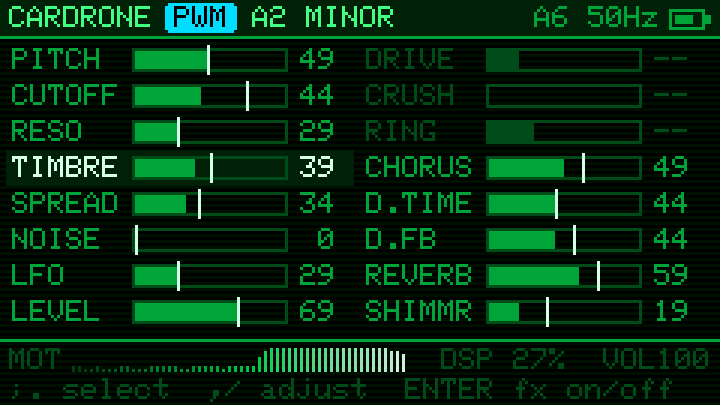
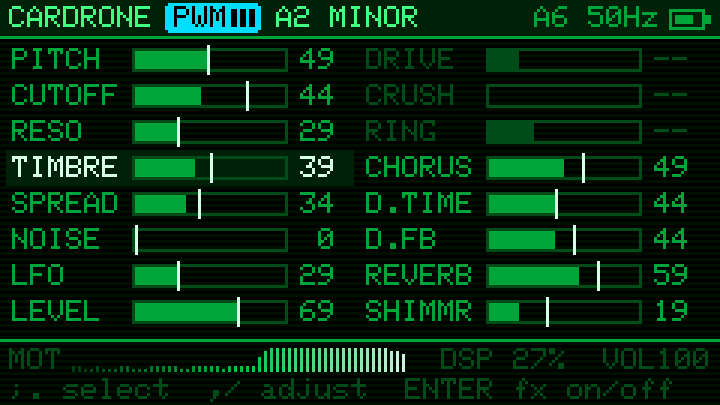
n cycles voices: 1 root, 2 + fifth, 3 + sub
Every engine stacks up to three tones (root, the fifth above, the octave
below); n picks how many, shown as bars in the header's engine tag and saved
with presets (older presets load as 3). ORGAN shares its 16 partials among the
voices and SHEP gets one Shepard bell per voice; SAW now splits its saws
between root and fifth. Changing voices fades out and back in, like an engine
switch, so nothing clicks.

Changed region(s): [[0.3056, 0.0, 0.5806, 0.0889]]

diff --git a/src/dsp.h b/src/dsp.h
@@ -51,13 +51,13 @@ constexpr int NSLOT = 8;
 struct Slot { uint8_t src, dst; int8_t depth; };  // depth -100..100, 0 = off
 
 struct Patch {
-  uint8_t engine, root, octave, scale, fx, lfo;
+  uint8_t engine, root, octave, scale, fx, lfo, voices;  // voices: 1 root, 2 +fifth, 3 +sub
   float p[NPARAM];
   Slot mod[NSLOT];
 };
 
 static const Patch DEFAULT_PATCH = {
-    E_PWM, 9, 2, 0, FX_CHORUS | FX_DELAY | FX_REVERB, L_SINE,
+    E_PWM, 9, 2, 0, FX_CHORUS | FX_DELAY | FX_REVERB, L_SINE, 3,
     {0.5f, 0.45f, 0.3f, 0.4f, 0.35f, 0.f, 0.3f, 0.7f, 0.2f, 0.f, 0.3f, 0.5f, 0.45f, 0.45f, 0.6f, 0.2f},
     {{S_MOT, P_CUTOFF, 35}, {S_PHS, P_TIMBRE, 25}, {S_MOT, P_SHIMMER, 30}, {S_MID, P_REVERB, 20},
      {S_RSSI, P_SPREAD, 15}, {S_LFO, P_CUTOFF, 10}, {S_HI, P_DFB, 20}, {S_LO, P_CHORUS, 20}},
@@ -78,8 +78,8 @@ static inline int quantize(float s, uint16_t mask) {
 
 // ── patch JSON (hand-rolled: the format is ours and flat) ────────────────────
 static int patchToJson(const Patch& p, char* out, int cap) {  // cap >= 512
-  int n = snprintf(out, cap, "{\"engine\":%d,\"root\":%d,\"octave\":%d,\"scale\":%d,\"fx\":%d,\"lfo\":%d,\n\"params\":[",
-                   p.engine, p.root, p.octave, p.scale, p.fx, p.lfo);
+  int n = snprintf(out, cap, "{\"engine\":%d,\"root\":%d,\"octave\":%d,\"scale\":%d,\"fx\":%d,\"lfo\":%d,\"voices\":%d,\n\"params\":[",
+                   p.engine, p.root, p.octave, p.scale, p.fx, p.lfo, p.voices);
   for (int i = 0; i < NPARAM; i++) n += snprintf(out + n, cap - n, "%s%.3f", i ? "," : "", p.p[i]);
   n += snprintf(out + n, cap - n, "],\n\"matrix\":[");
   for (int i = 0; i < NSLOT; i++)
@@ -109,12 +109,13 @@ static int clampInt(float v, int lo, int hi) { return v >= lo ? (v <= hi ? (int)
 // SD files are user-editable: every field is range-checked before use.
 static bool patchFromJson(const char* js, Patch& out) {
   static const char* const keys[5] = {"\"engine\"", "\"root\"", "\"octave\"", "\"scale\"", "\"fx\""};
-  float h[5], v[NPARAM], m[NSLOT * 3], lfo = 0;
+  float h[5], v[NPARAM], m[NSLOT * 3], lfo = 0, voices = 3;
   for (int i = 0; i < 5; i++)
     if (jsonNums(js, keys[i], &h[i], 1) != 1) return false;
   if (jsonNums(js, "\"params\"", v, NPARAM) != NPARAM) return false;
   if (jsonNums(js, "\"matrix\"", m, NSLOT * 3) != NSLOT * 3) return false;
-  jsonNums(js, "\"lfo\"", &lfo, 1);  // optional: presets saved before LFO shapes lack it
+  jsonNums(js, "\"lfo\"", &lfo, 1);  // optional: older presets lack these two
+  jsonNums(js, "\"voices\"", &voices, 1);
   Patch p;
   p.engine = clampInt(h[0], 0, NENGINE - 1);
   p.root = clampInt(h[1], 0, 11);
@@ -122,6 +123,7 @@ static bool patchFromJson(const char* js, Patch& out) {
   p.scale = clampInt(h[3], 0, NSCALE - 1);
   p.fx = clampInt(h[4], 0, 63);
   p.lfo = clampInt(lfo, 0, NLFO - 1);
+  p.voices = clampInt(voices, 1, 3);
   for (int i = 0; i < NPARAM; i++) p.p[i] = clamp01(v[i]);
   for (int i = 0; i < NSLOT; i++)
     p.mod[i] = {(uint8_t)clampInt(m[3 * i], 0, NSRC - 1), (uint8_t)clampInt(m[3 * i + 1], 0, NPARAM - 1),
@@ -207,9 +209,9 @@ struct Synth {
   void render(int16_t* out, int n, float* src, const float* prof);
 
  private:
-  float ph[16] = {}, pwmPh[6] = {}, mph[3] = {}, partAmp[16] = {}, fz1[3] = {}, fz2[3] = {}, shep = 0;
+  float ph[24] = {}, pwmPh[6] = {}, mph[3] = {}, partAmp[16] = {}, fz1[3] = {}, fz2[3] = {}, shep = 0;
   float baseS[NPARAM], modS[NSRC] = {}, lfoPh = 0, lfoA = 0, lfoB = 0, semis = 0, fade = 0, cut = 1000, ic1 = 0, ic2 = 0;
-  int engine = -1;
+  int engine = -1, curVoices = 3;
   uint8_t fxOn = 0;
   uint32_t rng = 22222;
   float crushHeld = 0, ringPh = 0;
@@ -281,9 +283,13 @@ DSP_IRAM void Synth::render(int16_t* out, int n, float* src, const float* prof) 
     if (s.depth && s.src < NSRC && s.dst < NPARAM) eff[s.dst] += modS[s.src] * s.depth * 0.01f;
   for (float& e : eff) e = clamp01(e);
 
-  // Engine swap: fade out, switch, fade back in.
-  if (P.engine != engine && fade < 0.002f) engine = P.engine < NENGINE ? P.engine : 0;
-  float fadeTo = P.engine == engine ? 1.f : 0.f;
+  // Engine or voice-count swap: fade out, switch, fade back in (oscillators
+  // appearing or vanishing mid-wave would click).
+  if ((P.engine != engine || P.voices != curVoices) && fade < 0.002f) {
+    engine = P.engine < NENGINE ? P.engine : 0;
+    curVoices = P.voices;
+  }
+  float fadeTo = P.engine == engine && P.voices == curVoices ? 1.f : 0.f;
 
   // An FX switched on starts clean instead of replaying a stale buffer.
   uint8_t fx = P.fx, on = fx & ~fxOn;
@@ -300,9 +306,13 @@ DSP_IRAM void Synth::render(int16_t* out, int n, float* src, const float* prof) 
   float fv[3] = {f0, f0 * 1.4983f, f0 * 0.5f};  // root, fifth, sub
   float tb = eff[P_TIMBRE], sp = eff[P_SPREAD];
 
-  float inc[16], idt[16], amp[16], pw[6], idx[3], minc[3], fa1[3], fa2[3], fa3[3], fk[3];
+  float inc[24], idt[24], amp[24], pw[6], idx[3], minc[3], fa1[3], fa2[3], fa3[3], fk[3];
   float norm = 1, wfr = 0;
   const int16_t *wA = WT[0], *wB = WT[1];
+  // Voices stack root, fifth (fv[1]) and sub (fv[2]); fewer voices get a lift so
+  // the level stays put (ORGAN and SHEP normalise themselves).
+  int tones = curVoices < 1 ? 1 : curVoices > 3 ? 3 : curVoices;
+  float vg = tones == 1 ? 1.25f : tones == 2 ? 1.1f : 1.f;
   switch (engine) {
     case E_PWM: {
       static const float rate[6] = {0.11f, 0.17f, 0.07f, 0.13f, 0.05f, 0.09f};
@@ -317,7 +327,7 @@ DSP_IRAM void Synth::render(int16_t* out, int n, float* src, const float* prof) 
     }
     case E_SAW:
       for (int j = 0; j < 7; j++) {
-        inc[j] = f0 * exp2f((j - 3) / 3.f * sp * 40 / 1200) / SR;
+        inc[j] = fv[tones > 1 ? j % 2 : 0] * exp2f((j - 3) / 3.f * sp * 40 / 1200) / SR;
         idt[j] = 1 / inc[j];
       }
       inc[7] = f0 * 0.5f / SR;
@@ -331,15 +341,17 @@ DSP_IRAM void Synth::render(int16_t* out, int n, float* src, const float* prof) 
       }
       break;
     }
-    case E_ORGAN: {  // organ: 16 partials shaped by the subcarrier profile
+    case E_ORGAN: {  // organ: 16 partials shaped by the subcarrier profile, shared among the voices
       float sum = 0;
-      for (int k = 0; k < 16; k++) {
-        int s0 = k * NSC / 16, s1 = (k + 1) * NSC / 16;
+      for (int k = 0, h = 0, last = -1; k < 16; k++) {
+        int s0 = k * NSC / 16, s1 = (k + 1) * NSC / 16, v = k * tones / 16;
+        h = v == last ? h + 1 : 1;  // harmonic number within this voice
+        last = v;
         float b = 0;
         for (int s = s0; s < s1; s++) b += prof[s];
         b /= s1 - s0;
-        inc[k] = f0 * powf(k + 1, 1 + sp * 0.12f) / SR;
-        float t = inc[k] < 0.45f ? powf(k + 1, -0.8f) * (1 - tb + tb * 1.6f * b) : 0;
+        inc[k] = fv[v] * powf(h, 1 + sp * 0.12f) / SR;
+        float t = inc[k] < 0.45f ? powf(h, -0.8f) * (1 - tb + tb * 1.6f * b) : 0;
         partAmp[k] += (t - partAmp[k]) * glide;
         amp[k] = partAmp[k];
         sum += amp[k];
@@ -369,10 +381,10 @@ DSP_IRAM void Synth::render(int16_t* out, int n, float* src, const float* prof) 
       shep += n * (tb - 0.5f) * 0.15f / SR;  // octaves/s; TIMBRE 0.5 holds still, above rises
       shep -= 8 * floorf(shep / 8);
       float sum = 0, sharp = 1 + (1 - sp) * 4;  // SPREAD widens the bell
-      for (int k = 0; k < 8; k++) {
-        float o = k + shep;
+      for (int k = 0; k < 8 * tones; k++) {  // one bell per voice
+        float o = k % 8 + shep;
         if (o >= 8) o -= 8;  // wraps at the bell's silent edge
-        inc[k] = f0 * exp2f(o - 4) / SR;
+        inc[k] = fv[k / 8] * exp2f(o - 4) / SR;
         amp[k] = inc[k] < 0.45f ? powf(0.5f - 0.5f * sinT(o / 8 + 0.25f), sharp) : 0;
         sum += amp[k];
       }
@@ -418,11 +430,11 @@ DSP_IRAM void Synth::render(int16_t* out, int n, float* src, const float* prof) 
     float x = 0;
     switch (engine) {
       case E_PWM:
-        for (int j = 0; j < 6; j++) {
+        for (int j = 0; j < 2 * tones; j++) {  // a detuned pair per voice
           ph[j] = wrap1(ph[j] + inc[j]);
           x += (j < 2 ? 0.5f : j < 4 ? 0.3f : 0.4f) * pulseB(ph[j], inc[j], idt[j], pw[j]);
         }
-        x *= 0.42f;
+        x *= 0.42f * vg;
         break;
       case E_SAW: {
         float side = 0.2f + 0.8f * tb;
@@ -431,15 +443,16 @@ DSP_IRAM void Synth::render(int16_t* out, int n, float* src, const float* prof) 
           x += (j == 3 ? 1.f : side) * sawB(ph[j], inc[j], idt[j]);
         }
         ph[7] = wrap1(ph[7] + inc[7]);
-        x = x * 0.12f + 0.3f * sinT(ph[7]);
+        x = (x * 0.12f + (tones == 3 ? 0.3f * sinT(ph[7]) : 0)) * vg;
         break;
       }
       case E_FM:
-        for (int v = 0; v < 3; v++) {
+        for (int v = 0; v < tones; v++) {
           mph[v] = wrap1(mph[v] + minc[v]);
           ph[v] = wrap1(ph[v] + inc[v]);
           x += (v == 1 ? 0.25f : 0.4f) * sinT(ph[v] + idx[v] * sinT(mph[v]));
         }
+        x *= vg;
         break;
       case E_ORGAN:
         for (int j = 0; j < 16; j++)
@@ -450,21 +463,22 @@ DSP_IRAM void Synth::render(int16_t* out, int n, float* src, const float* prof) 
         x *= norm;
         break;
       case E_WAVE:
-        for (int v = 0; v < 4; v++) {
+        for (int v = 0; v < tones + 1; v++) {  // root pair, fifth, sub
           ph[v] = wrap1(ph[v] + inc[v]);
           float pf = ph[v] * WT_N, fr = pf - (int)pf;
           int i0 = (int)pf, i1 = (i0 + 1) & (WT_N - 1);
           float a = wA[i0] + (wA[i1] - wA[i0]) * fr, b = wB[i0] + (wB[i1] - wB[i0]) * fr;
           x += (v < 2 ? 0.35f : v == 2 ? 0.2f : 0.3f) * (a + (b - a) * wfr);
         }
-        x *= 1 / 32000.f;
+        x *= vg / 32000.f;
         break;
       case E_VOICE: {
         float s = 0;
-        for (int j = 0; j < 4; j++) {
+        for (int j = 0; j < tones + 1; j++) {  // root pair, fifth, sub
           ph[j] = wrap1(ph[j] + inc[j]);
           s += (j == 2 ? 0.6f : 1.f) * sawB(ph[j], inc[j], idt[j]);
         }
+        s *= vg;
         for (int f = 0; f < 3; f++) {  // TPT bandpass; k * band = unity gain at the formant
           float v3 = s - fz2[f], v1 = fa1[f] * fz1[f] + fa2[f] * v3, v2 = fz2[f] + fa2[f] * fz1[f] + fa3[f] * v3;
           fz1[f] = 2 * v1 - fz1[f];
@@ -474,7 +488,7 @@ DSP_IRAM void Synth::render(int16_t* out, int n, float* src, const float* prof) 
         break;
       }
       case E_SHEP:
-        for (int j = 0; j < 8; j++) {
+        for (int j = 0; j < 8 * tones; j++) {
           ph[j] = wrap1(ph[j] + inc[j]);
           x += amp[j] * sinT(ph[j]);
         }

diff --git a/src/main.cpp b/src/main.cpp
@@ -264,10 +264,11 @@ static void drawHeader() {
   cv.setTextColor(C_HI);
   cv.drawString("CARDRONE", 3, 2);
   const char* en = ENGINE_NAME[P.engine];
-  int ew = cv.textWidth(en) + 6;
+  int tw = cv.textWidth(en), ew = tw + 5 + 3 * P.voices;
   cv.fillRoundRect(55, 1, ew, 10, 2, ENGINE_COLOR[P.engine]);
   cv.setTextColor(C_BG);
   cv.drawString(en, 58, 2);
+  for (int v = 0; v < P.voices; v++) cv.fillRect(59 + tw + v * 3, 3, 2, 6, C_BG);  // one bar per voice
   char s[24];
   snprintf(s, sizeof s, "%s%d %s", NOTE_NAME[P.root], P.octave, SCALES[P.scale].name);
   cv.setTextColor(C_HI);
@@ -379,7 +380,7 @@ static void drawHelp() {
       {"TAB", "next page"}, {"1-7", "drone engine"}, {"[ ]", "root note"}, {"9 0", "octave"},
       {"k", "scale"},       {"r", "randomize"},      {"c", "calibrate room"}, {"s l", "save/load 1-8"},
       {"- =", "volume"},    {"`", "options+network"}, {";.", "up / down"}, {",/", "adjust"},
-      {"ENT", "play/stop, edit"}, {"DEL", "clear mod slot"}, {"h", "this help"}};
+      {"ENT", "play/stop, edit"}, {"DEL", "clear mod slot"}, {"n", "voices 1-3"}, {"h", "this help"}};
   for (int i = 0; i < (int)(sizeof K / sizeof *K); i++) {
     int x = 6 + (i / 8) * 120, y = 16 + (i % 8) * 11;
     cv.setTextColor(C_HI);
@@ -841,6 +842,12 @@ static void onKey(char c) {
     case '`': overlay = OV_OPTIONS; break;
     case '1': case '2': case '3': case '4': case '5': case '6': case '7': P.engine = c - '1'; break;
     case 'r': randomize(); break;
+    case 'n': {
+      static const char* const DESC[3] = {"VOICES 1: root", "VOICES 2: root + fifth", "VOICES 3: root + fifth + sub"};
+      P.voices = P.voices % 3 + 1;
+      say(DESC[P.voices - 1]);
+      break;
+    }
     case '[': P.root = (P.root + 11) % 12; break;
     case ']': P.root = (P.root + 1) % 12; break;
     case '9': if (P.octave > 0) P.octave--; break;

diff --git a/test/host_test.cpp b/test/host_test.cpp
@@ -53,7 +53,9 @@ int main(int argc, char** argv) {
   assert(patchFromJson(js, q));
   assert(q.engine == p.engine && q.fx == p.fx && q.mod[2].depth == -40 && q.mod[3].dst == P_REVERB);
   assert(fabsf(q.p[P_TIMBRE] - 0.123f) < 1e-3f);
-  assert(q.lfo == p.lfo);
+  assert(q.lfo == p.lfo && q.voices == p.voices);
+  assert(patchFromJson("{\"engine\":1,\"root\":0,\"octave\":2,\"scale\":0,\"fx\":0,\"params\":[0,0,0,0,0,0,0,0,0,0,0,0,0,0,0,0],"
+                       "\"matrix\":[[0,0,0],[0,0,0],[0,0,0],[0,0,0],[0,0,0],[0,0,0],[0,0,0],[0,0,0]]}", q) && q.voices == 3);  // pre-voices preset
   assert(!patchFromJson("{\"engine\":1}", q));
   const char* evil =
       "{\"engine\":99,\"root\":-5,\"octave\":7,\"scale\":-nan,\"fx\":999,\"params\":[9,9,9,9,9,9,9,9,9,9,9,9,9,9,9,-x9],"
@@ -108,6 +110,26 @@ int main(int argc, char** argv) {
     }
     printf("reverb+shimmer maxed: %.2f%% of samples at the clipper\n", 100.0 * pinned / (SR * 10));
     assert(pinned < SR * 10 / 100);
+  }
+
+  // Every engine at 1, 2 and 3 voices: audible, and the level roughly holds as voices drop.
+  for (int e = 0; e < NENGINE; e++) {
+    printf("%-6s voices", ENGINE_NAME[e]);
+    for (int v = 1; v <= 3; v++) {
+      syn.pt = DEFAULT_PATCH;
+      syn.pt.engine = e, syn.pt.voices = v;
+      float src0[NSRC] = {}, flat[NSC];
+      for (float& f : flat) f = 0.5f;
+      double sq = 0;
+      for (int i = 0; i < SR * 3; i += 512) {
+        syn.render(pcm, 512, src0, flat);
+        if (i >= SR * 2) for (int j = 0; j < 512; j++) sq += (double)pcm[j] * pcm[j];
+      }
+      float rms = sqrtf(sq / (SR - SR % 512)) / 32767;
+      printf("  %d: rms %.3f", v, rms);
+      assert(rms > 0.03f && rms < 0.7f);
+    }
+    puts("");
   }
 
   // Every engine with every FX and swinging sources: finite, audible, not pinned.

diff --git a/manual.md b/manual.md
@@ -18,7 +18,7 @@ Plug in headphones and the speaker switches off by itself.
 
 **Header**, from left to right:
 
-- the engine name, in its own color, so you can tell at a glance which one is playing; then the root note, octave and scale, e.g. `A2 MINOR`
+- the engine name, in its own color, so you can tell at a glance which one is playing, with one small bar per voice; then the root note, octave and scale, e.g. `A2 MINOR`
 - the network mode letter and channel: `A` auto, `J` join, `L` listen, so `A6` means AUTO on channel 6
 - how many WiFi measurements arrive per second, e.g. `48Hz` (amber when nothing is coming in)
 - the battery level (in the warning color below 20%)
@@ -108,6 +108,16 @@ Press `1`–`7`. The sound fades over when you switch.
 | `6` | **VOICE** | A choir: four voices through vocal formants. | the vowel: a → e → i → o → u | choir detune |
 | `7` | **SHEP** | A Shepard drone: octaves that slide forever without ever getting higher or lower. | glide: 0.5 holds still, above rises, below falls | how wide the bell of octaves is |
 
+### Voices
+
+Press `n` to choose how many tones the drone stacks:
+
+- **1**: just the root
+- **2**: root and the fifth above it, the classic open drone
+- **3**: root, fifth and an octave below (the default)
+
+Every engine follows this. ORGAN shares its 16 partials among the voices, so at 1 voice it is one rich tone and at 3 a chord. SHEP gets one endless slide per voice. Fewer voices also leaves the synth more headroom (lower `DSP %`). The voice count is saved with presets.
+
 ## Params
 
 | Param | What it does |
@@ -138,6 +148,7 @@ Changes glide over a fraction of a second, so turning a knob, loading a preset o
 | **Enter** | play / stop (on Params and Matrix it edits while playing) |
 | **Tab** | next page |
 | `1`–`7` | engine |
+| `n` | voices: 1, 2 or 3 (see below) |
 | `[` `]` | root note down / up |
 | `9` `0` | octave down / up |
 | `k` | next scale: minor, major, dorian, phrygian, pentatonic, fifths, chromatic |

diff --git a/README.md b/README.md
@@ -51,6 +51,7 @@ Nothing sounds until `Enter` (play). On the ADV, plugging headphones into the ja
 |---|---|
 | `Tab` | page: Waterfall → Bars → Params → Matrix |
 | `1`–`7` | engine: PWM, SAW (supersaw), FM (bell), ORGAN (subcarrier additive), WAVE (wavetable), VOICE (formant choir), SHEP (endless Shepard drone) |
+| `n` | voices: 1 (root), 2 (+ fifth), 3 (+ sub); shown as bars in the engine tag |
 | `r` | randomize params in drone-friendly ranges (pitch, noise and level stay put) |
 | `[` `]` | root note down / up |
 | `9` `0` | octave down / up |
